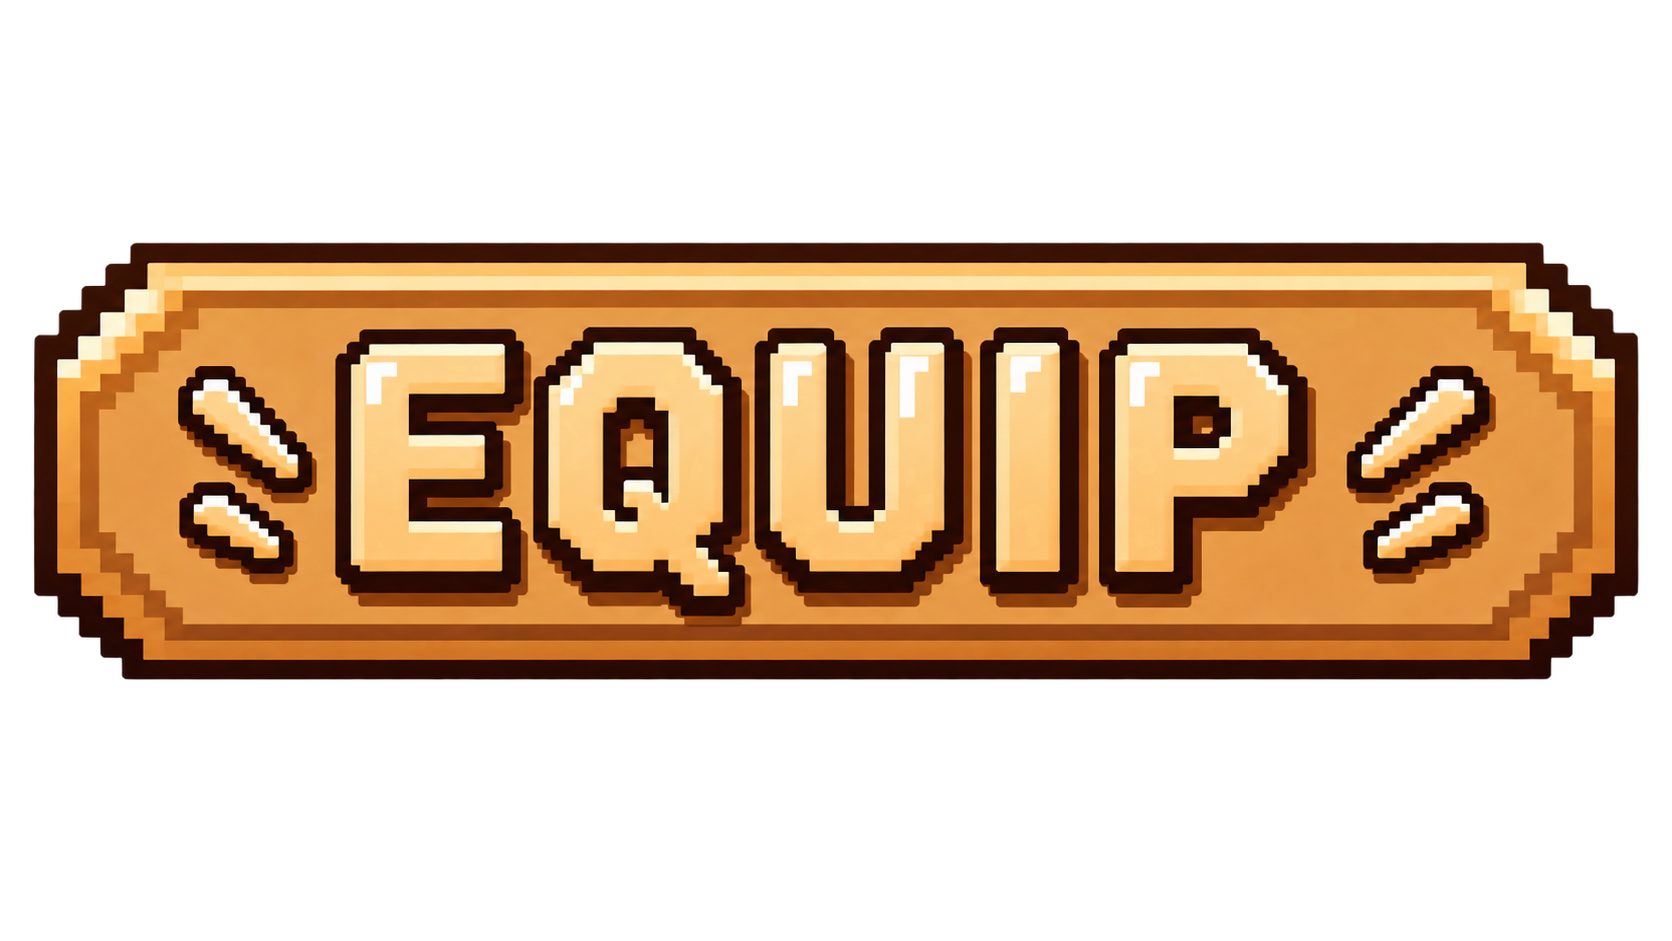
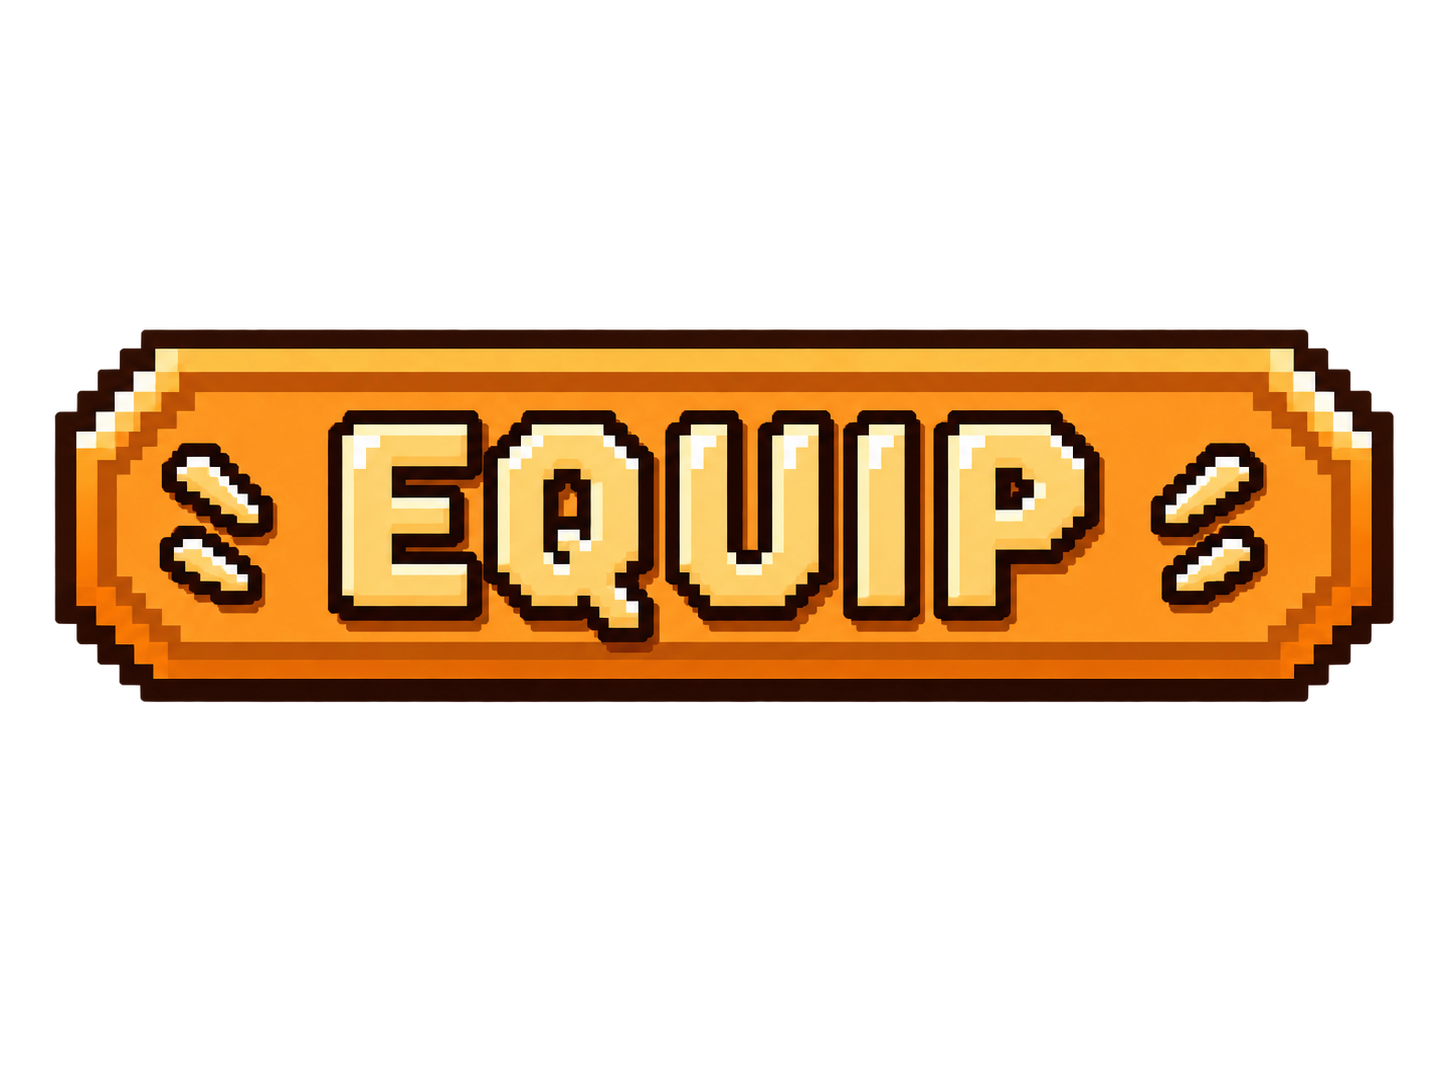
Bug Fixes and shit

diff --git a/main.py b/main.py
@@ -4,9 +4,9 @@ pygame.font.init()
 
 #test
 testpillar = False
-testpress = True
-testscore = True
-tesths = True
+testpress = False
+testscore = False
+tesths = False
 #DISPLAY
 SCREEN_WIDTH = 700
 SCREEN_HEIGHT = 1000
@@ -17,14 +17,23 @@ clock = pygame.time.Clock()
 font = pygame.font.Font('Assets/font.ttf', 120)
 mode_font = pygame.font.Font('Assets/font.ttf', 70)
 #Backround
-backroundold = pygame.image.load('Assets/backround.png')
+backrounddetails = 'Assets/backround.png'
+birddetails = 'Assets/bird.png'
+pillardetails = 'Assets/pillar.png'
+backroundold = pygame.image.load(backrounddetails)
 backround = pygame.transform.scale(backroundold, (1049, 1499))
 backroundflip = pygame.transform.rotate(backround, 180)
 #Home Screen
 homeold = pygame.image.load('Assets/home.png')
 homeimg = pygame.transform.scale(homeold, (750, 1000))
+#Shop
 shopold = pygame.image.load('Assets/shop.png')
 shopimg = pygame.transform.scale(shopold, (750, 1000))
+equippedold = pygame.image.load('Assets/equipped.png')
+equippedimg = pygame.transform.scale(equippedold, (160, 120))
+equipold = pygame.image.load('Assets/equip.png')
+equipimg = pygame.transform.scale(equipold, (160, 120))
+
 BLUE = 0,0,255
 #Json Save File
 defult_data = {
@@ -60,6 +69,14 @@ def movesave():
     save(defult_data)
     pygame.quit()
     sys.exit()
+#shop
+equip1 = {
+    'x': 90,
+    'y': 375,
+    'width': 160,
+    'height': 45
+}
+#home
 startbutton = {
     'x': 180,
     'y': 350,
@@ -110,15 +127,12 @@ homebutton = {
     'height': 300
 }
 #Pillar
-pillarold = pygame.image.load('Assets/pillar.png') 
+pillarold = pygame.image.load(pillardetails)
 pillar = pygame.transform.scale(pillarold, (400, 600))
 pillarflip = pygame.transform.rotate(pillar, 180)
 #bird
-birdold = pygame.image.load('Assets/bird.png')
+birdold = pygame.image.load(birddetails)
 birdimg = pygame.transform.scale(birdold, (120, 80))
-#birdwidth 1536
-#birdheight 1024
-#3:2 ratio
 #Game Vars and Functions
 gamecolor = 230, 115, 0
 highscore = {
@@ -151,25 +165,20 @@ def pillarxlistmaker():
 pillarxlistmaker()
 class pillarobj:
     def __init__(self):
-        self.pillarylist = []
-        self.xposlist = []
-        self.xposlist.append(pillarx[0])
-        self.xposlist.append(pillarx[1])
-        self.xposlist.append(pillarx[2])
-        self.pillarylist.append(first_pillary)
-        self.pillarylist.append(second_pillary)
-        self.pillarylist.append(third_pillary)
-        self.img  = pillar
-        self.imgflip = pillarflip
-        self.pillar1 = display.blit(self.img, (self.xposlist[0], self.pillarylist[0]))
-        self.pillar1flip = display.blit(self.imgflip, (self.xposlist[0], self.pillarylist[0] + 850))
-        self.pillar2 = display.blit(self.img, (self.xposlist[1], self.pillarylist[1]))
-        self.pillar2flip = display.blit(self.imgflip, (self.xposlist[1], self.pillarylist[1] + 850))
-        self.pillar3 = display.blit(self.img, (self.xposlist[2], self.pillarylist[2]))
-        self.pillar3flip = display.blit(self.imgflip, (self.xposlist[2], self.pillarylist[2] + 850))
+        print('hi')
+    def draw(self):
+        self.pillar1 = display.blit(pillar, (pillar1x, first_pillary))
+        self.pillar1flip = display.blit(pillarflip, (pillar1x, first_pillary + 850))
+        self.pillar2 = display.blit(pillar, (pillar2x, second_pillary))
+        self.pillar2flip = display.blit(pillarflip, (pillar2x, second_pillary + 850))
+        self.pillar3 = display.blit(pillar, (pillar3x, third_pillary))
+        self.pillar3flip = display.blit(pillarflip, (pillar3x, third_pillary + 850))
+
+            
         
+pillarload = pillarobj()
 highscore['highscore'] = str(game_data['highscore'])
-    
+equip1img = equipimg
 #gets width     of the backround image 
 backround_width = backround.get_width()
 #sets the backround x position
@@ -191,6 +200,7 @@ print(highscore['highscore'])
 #Run Loop
 running = True
 while running:
+    #print(clock.get_fps())
     highscorex = 110
     if scrollspeed == 1:
         mode = 'Mode: Easy'
@@ -206,10 +216,20 @@ while running:
         modex = 145
     mousepos = pygame.mouse.get_pos()
     if gamestatus == 0:
+        #backround dont move
         display.blit(shopimg, (-25, -20))
+        display.blit(equip1img, (90, 340))
+        equip1_rect = pygame.Rect((equip1['x'], equip1['y']), (equip1['width'], equip1['height']))
         for event in pygame.event.get():
             if event.type == pygame.QUIT:
                 movesave()
+            if event.type == pygame.MOUSEBUTTONDOWN:
+                if equip1_rect.collidepoint(mousepos):
+                    if equip1img == equipimg:
+                        equip1img = equippedimg
+                    else:
+                        equip1img = equipimg
+                print('click')
     if gamestatus == 1:
         if highscore['highscore'] == '':
             highscore['highscore'] = '0'
@@ -371,10 +391,7 @@ while running:
         #idk how i didnt think of this in the 3 days i spent on this problem
         display.blit(backround, (backroundx + backround_width, 0))
         display.blit(birdimg, (birdx, birdy))
-        pillarload = pillarobj()
-        pillarload.pillar1
-        pillarload.pillar2
-        pillarload.pillar3
+        pillarload.draw()
         if testpillar == True:
             print(pillarload.xposlist, pillarx[0], pillarx[1], pillarx[2])
         #fontimage
